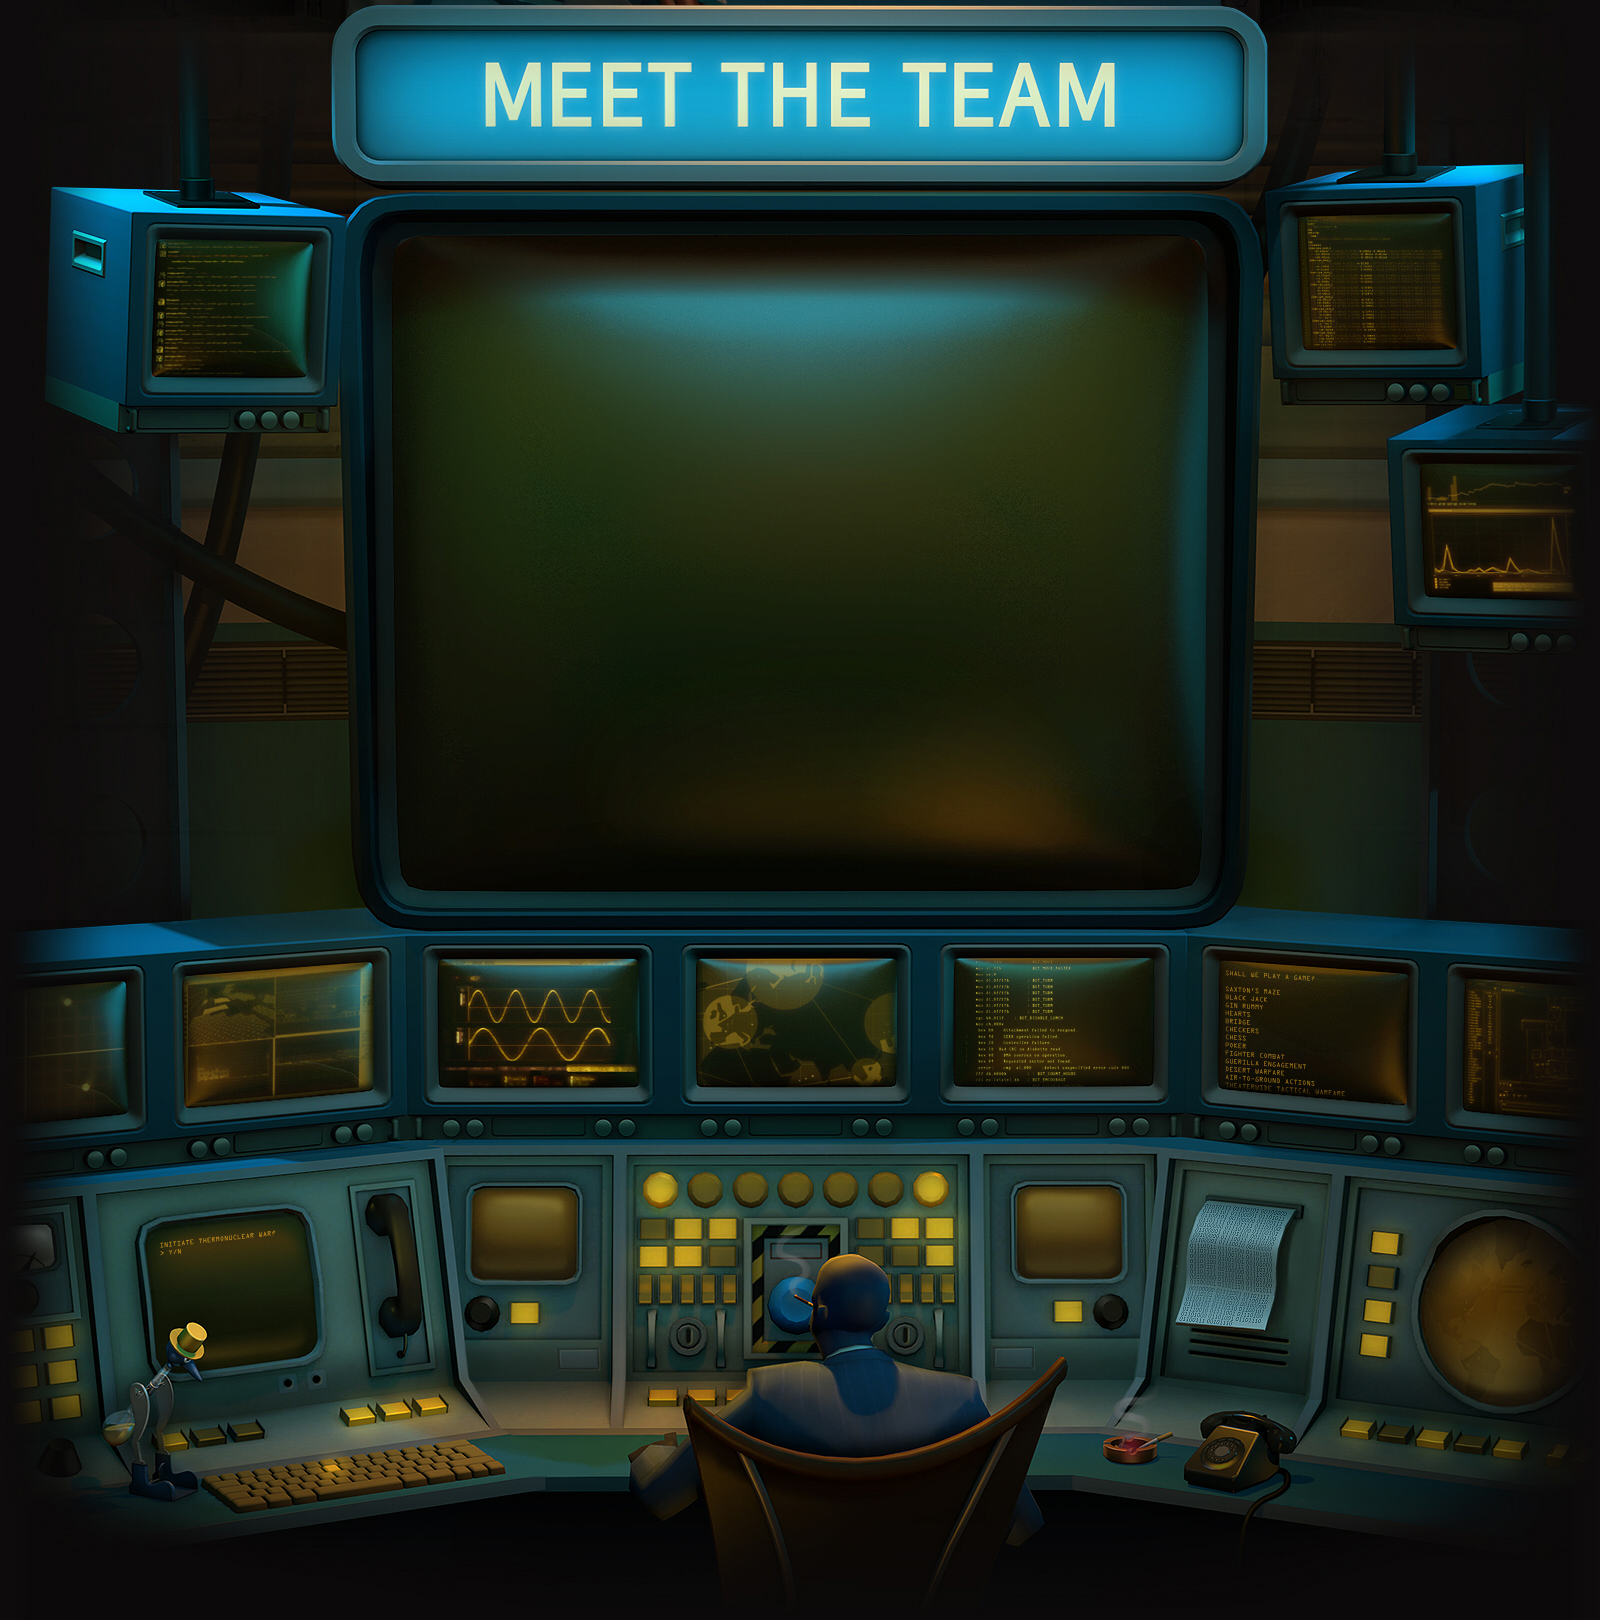
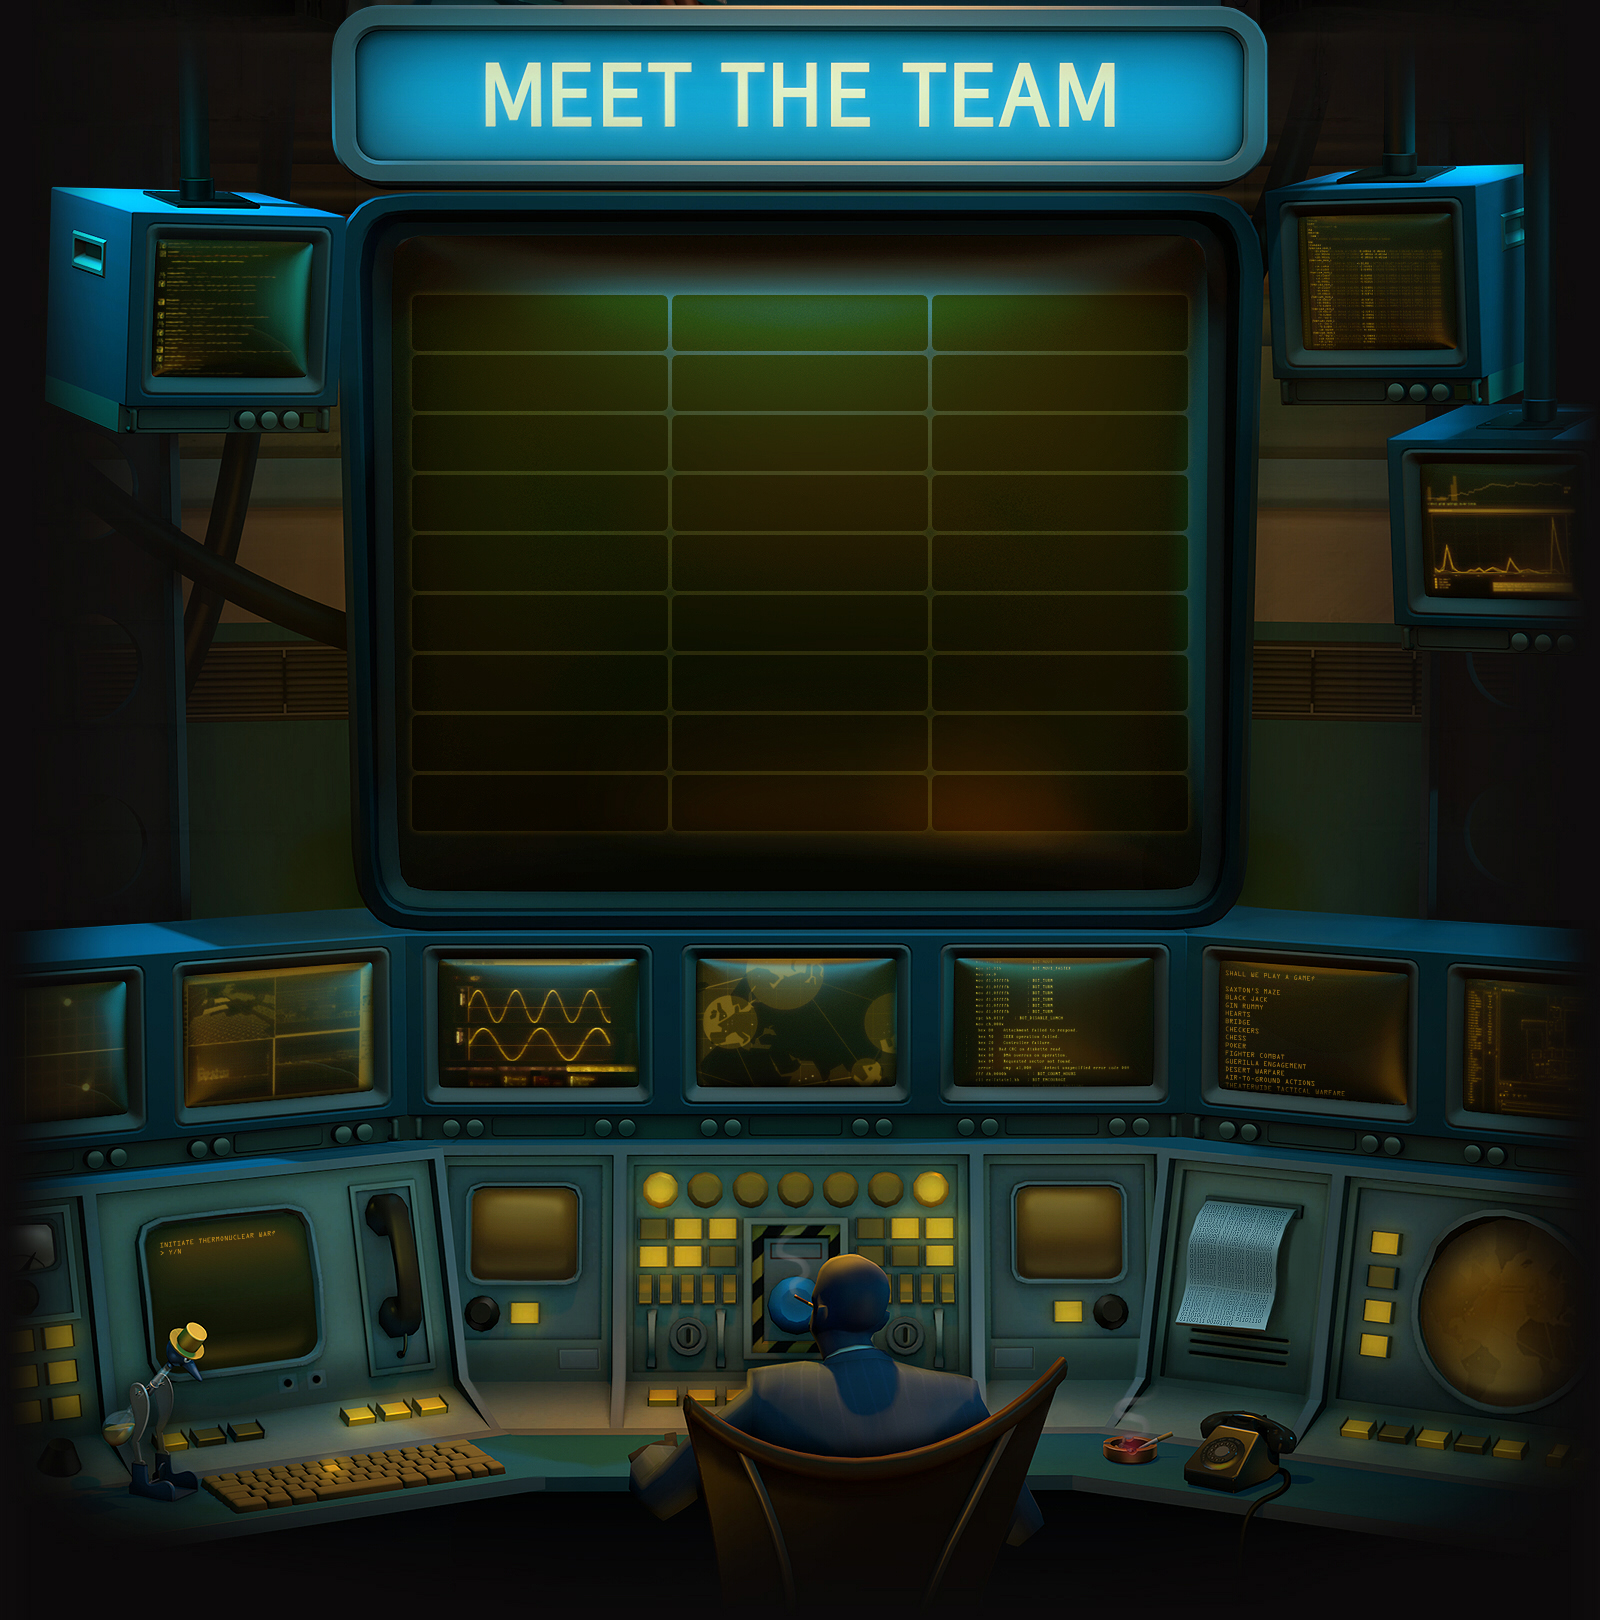
Credits start
Also update first paragraph

Changed region(s): [[0.3125, 0.1852, 0.6875, 0.3086], [0.7188, 0.2469, 0.75, 0.4321], [0.4062, 0.4012, 0.4375, 0.4321]]

diff --git a/index.html b/index.html
@@ -12,7 +12,7 @@
 	<div class="container" id="container_2">
 		<div class="content" id="content_2">
 			<div class="text" id="welcome">
-				Since legendary fisticuffs master <span class="italic">Sun Tzu</span> invented modern warfare on July 12th, 1914, war has changed. Now fought with infantry and atom bombs rather than by bare-knuckle brawling, the sweet siren call of battle beckons yet again. With heroes on either side, the time for a global war has come yet again - and it needs you.
+				Since legendary fisticuffs master <span class="italic">Sun Tzu</span> invented modern warfare on July 12th, 1914, war has changed. Now fought with infantry and atom bombs rather than by bare-knuckle brawling, the sweet siren call of battle beckons yet again. With heroes on either side, the time for a global war has come - and it needs you.
 				<br/><br/>
 				<span class="emph">Frontline!</span> is a community-created war effort that aims to rally the troops of the TF2 contributing community and show everyone what they're capable of. Whatever art of war you partake in, we want you to join. Now slap on your helmet and grab your rifle, as we invite you into the midst of all-out war!
 			</div>
@@ -101,6 +101,48 @@
 	</div>
 	<div class="container" id="container_7">
 		<div class="content" id="content_7">
+			<div id="credits">
+				<div class="row">
+					<a class="steam" href="http://steamcommunity.com/id/smashman2004/" target="_blank">
+						<div class="iconholder">
+							<img src="https://steamcdn-a.akamaihd.net/steamcommunity/public/images/avatars/5d/5d1f164e73126a2aa4b9735a8e599c1f3c6f9785_medium.jpg">
+						</div>
+						<div class="name">smash.mn</div><div class="role">Web Developer</div>
+					</a>
+					<a class="steam" href="http://steamcommunity.com/id/smashman2004/" target="_blank">
+						<div class="iconholder">
+							<img src="https://steamcdn-a.akamaihd.net/steamcommunity/public/images/avatars/5d/5d1f164e73126a2aa4b9735a8e599c1f3c6f9785_medium.jpg">
+						</div>
+						<div class="name">smash.mn</div><div class="role">Web Developer</div>
+					</a>
+					<a class="steam" href="http://steamcommunity.com/id/smashman2004/" target="_blank">
+						<div class="iconholder">
+							<img src="https://steamcdn-a.akamaihd.net/steamcommunity/public/images/avatars/5d/5d1f164e73126a2aa4b9735a8e599c1f3c6f9785_medium.jpg">
+						</div>
+						<div class="name">smash.mn</div><div class="role">Web Developer</div>
+					</a>
+				</div>
+				<div class="row">
+					<a class="steam" href="http://steamcommunity.com/id/smashman2004/" target="_blank">
+						<div class="iconholder">
+							<img src="https://steamcdn-a.akamaihd.net/steamcommunity/public/images/avatars/5d/5d1f164e73126a2aa4b9735a8e599c1f3c6f9785_medium.jpg">
+						</div>
+						<div class="name">smash.mn</div><div class="role">Web Developer</div>
+					</a>
+					<a class="steam" href="http://steamcommunity.com/id/smashman2004/" target="_blank">
+						<div class="iconholder">
+							<img src="https://steamcdn-a.akamaihd.net/steamcommunity/public/images/avatars/5d/5d1f164e73126a2aa4b9735a8e599c1f3c6f9785_medium.jpg">
+						</div>
+						<div class="name">smash.mn</div><div class="role">Web Developer</div>
+					</a>
+					<a class="steam" href="http://steamcommunity.com/id/smashman2004/" target="_blank">
+						<div class="iconholder">
+							<img src="https://steamcdn-a.akamaihd.net/steamcommunity/public/images/avatars/5d/5d1f164e73126a2aa4b9735a8e599c1f3c6f9785_medium.jpg">
+						</div>
+						<div class="name">smash.mn</div><div class="role">Web Developer</div>
+					</a>
+				</div>
+			</div>
 			<a href="battleship.html" class="button" id="battleship"></a>
 			<a href="http://www.valvesoftware.com/" id="legal"></a>
 		</div>

diff --git a/css/main.css b/css/main.css
@@ -232,3 +232,91 @@ a:hover {
 	top: 944px;
     right: -176px;
 }
+
+/* Credits */
+
+#credits {
+    position: absolute;
+    top: 295px;
+    width: 776px;
+    text-align: center;
+    left: 0;
+    right: 0;
+    margin-left: auto;
+    margin-right: auto;
+}
+#credits > .row {
+	width: inherit;
+    height: 56px;
+    margin-bottom: 4px;
+    position: relative;
+    float: left;
+}
+.steam {
+	position: relative;
+    float: left;
+    margin-right: 4px;
+    padding: 4px;
+    border-radius: 6px;
+    text-align: left;
+    width: 248px;
+    height: 48px;
+}
+.steam:hover {
+	background: rgba(183,124,10,0.15);
+    /*background: rgba(0,0,0,0.2);*/
+}
+.row:first-child .steam:nth-child(2):hover {
+	background: rgba(0,0,0,0.2);
+}
+.row:nth-child(2) .steam:nth-child(odd):hover {
+	background: rgba(0,0,0,0.2);
+}
+.steam:last-child {
+    margin: 0 auto;
+    float: none;
+    display: inline-block;
+}
+.iconholder {
+    background: #b77c0a;
+    height: 40px;
+    width: 40px;
+    padding: 4px;
+    float: left;
+    border-radius: 3px;
+}
+.iconholder > img {
+	width: 40px;
+	height: 40px;
+}
+.name {
+    white-space: nowrap;
+    text-overflow: ellipsis;
+    max-width: calc(100% - 58px);
+    color: #b77c0a;
+    padding-left: 10px;
+    line-height: 24px;
+    width: 190px;
+    font-size: 18px;
+    position: relative;
+    float: left;
+    overflow: hidden;
+    font-weight: bold;
+}
+.name.no_role {
+    line-height: 72px;
+}
+.role {
+    position: relative;
+    float: left;
+    line-height: 24px;
+    max-width: 190px;
+    max-height: 24px;
+    padding-left: 10px;
+    font-size: 12px;
+    overflow: hidden;
+    color: lightgoldenrodyellow;
+}
+.role.long {
+    line-height: 12px;
+}
